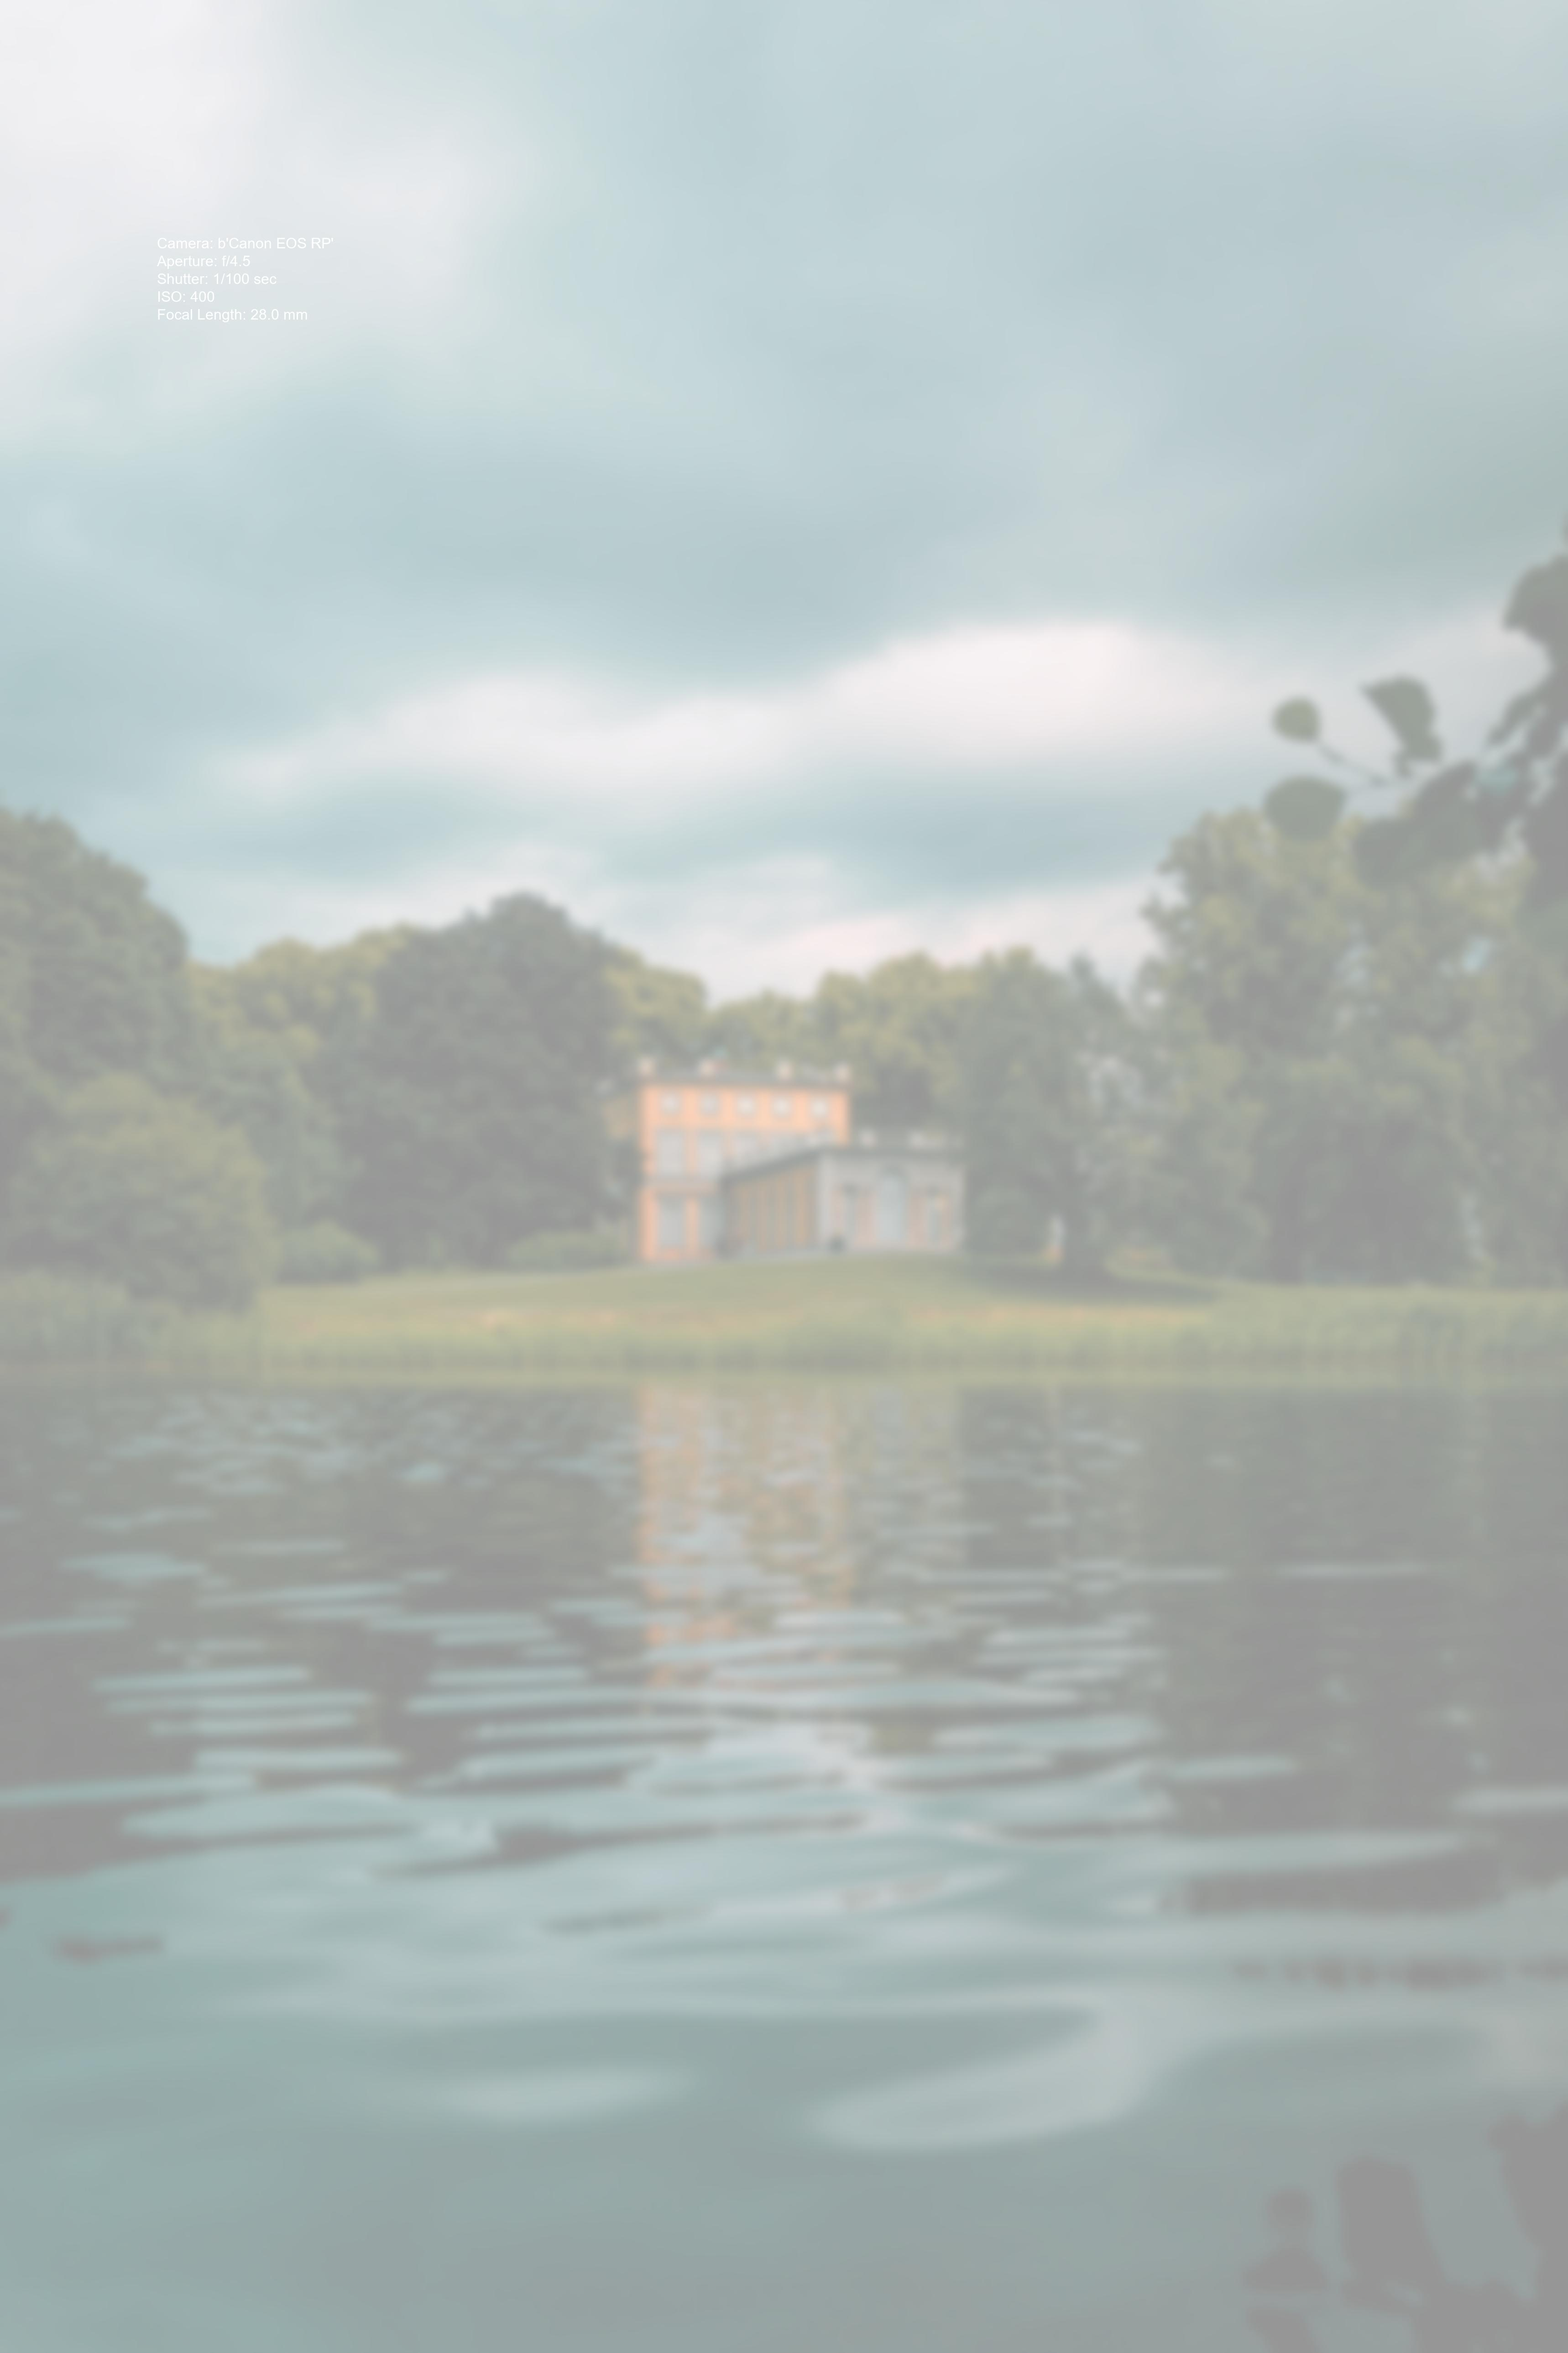
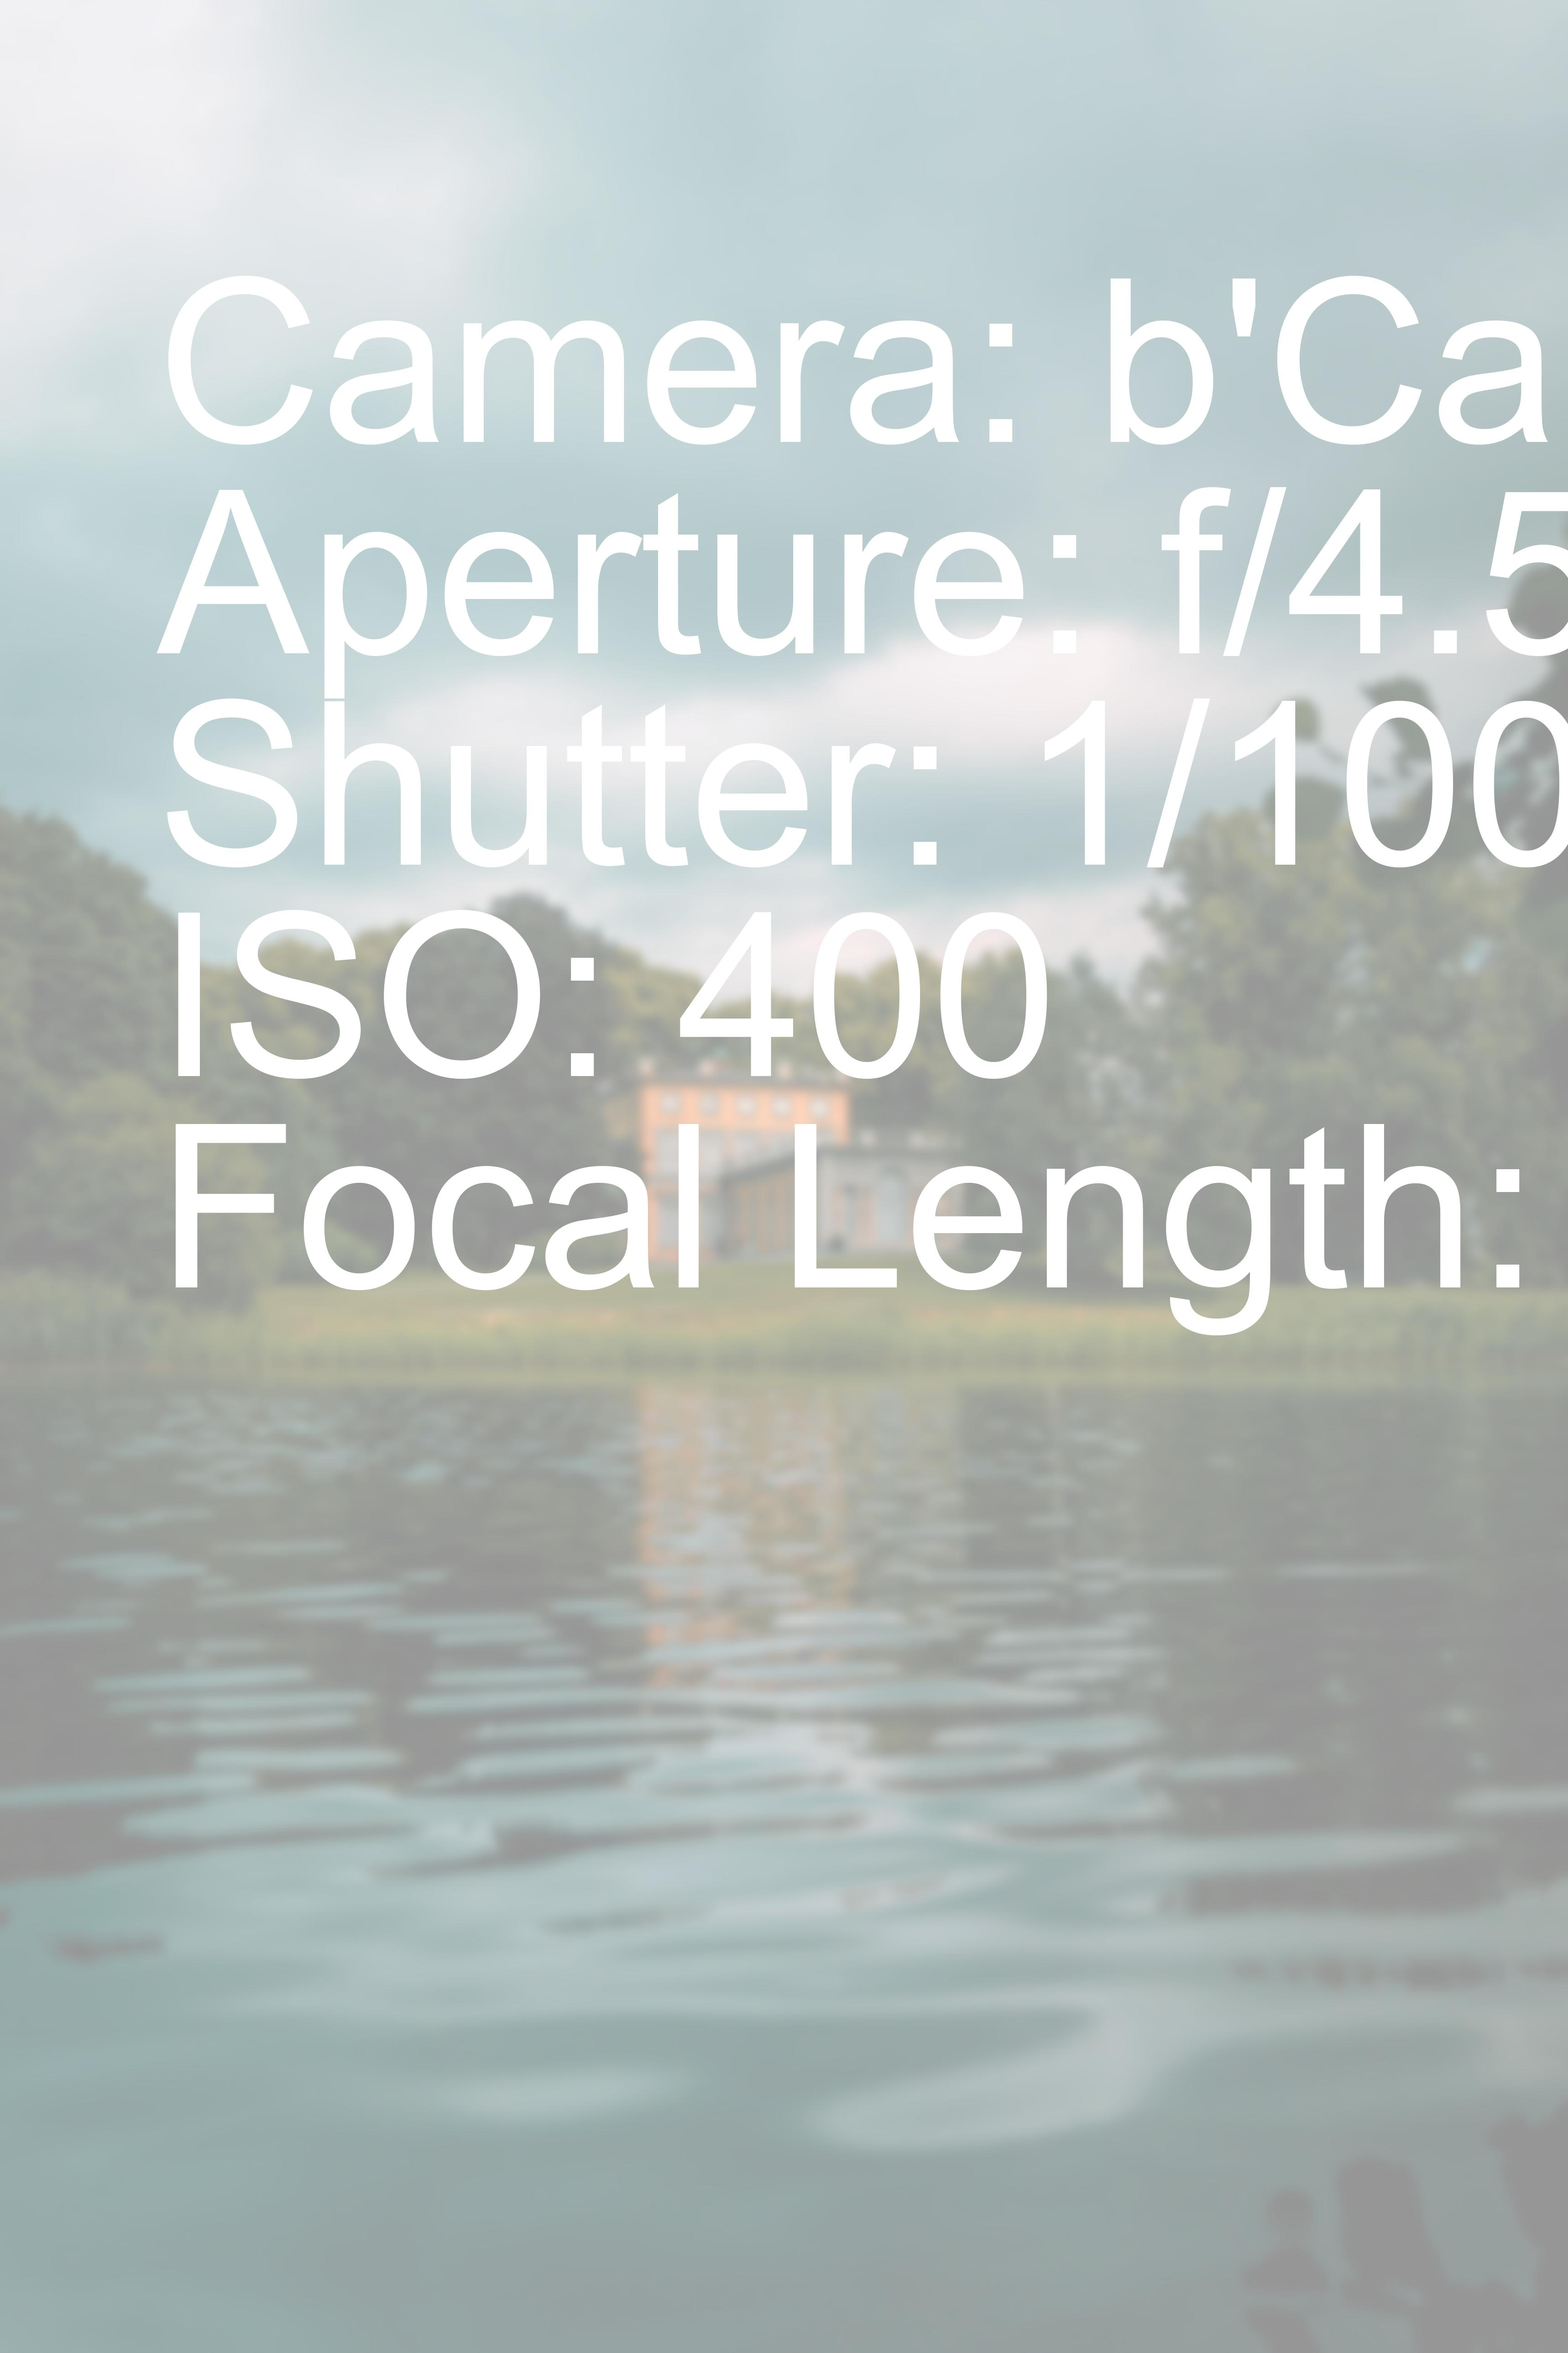
Remaining changes

Changed region(s): [[0.0934, 0.0937, 0.9654, 0.5935], [0.6851, 0.0937, 1.0, 0.3749], [0.654, 0.3124, 0.7474, 0.3749]]

diff --git a/test2.py b/test2.py
@@ -9,6 +9,7 @@ image_path = "IMG_2515.jpg"
 output_path = "output_glassmorph.jpg"
 
 img = Image.open(image_path).convert("RGBA")
+# img.show()
 
 # Load EXIF data
 exif_dict = piexif.load(image_path)
@@ -70,7 +71,7 @@ blurred.paste(glass_panel, (panel_x, panel_y), glass_panel)
 # -------------------------
 
 try:
-    font = ImageFont.truetype("arial.ttf", 32)
+    font = ImageFont.truetype("arial.ttf", 500)
 except:
     font = ImageFont.load_default()
 
